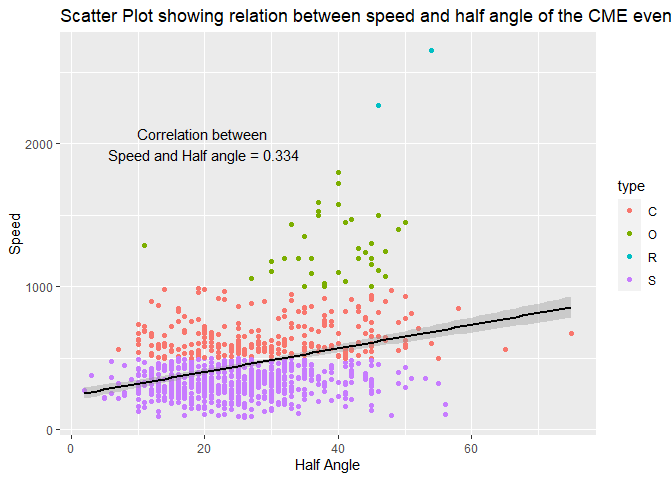
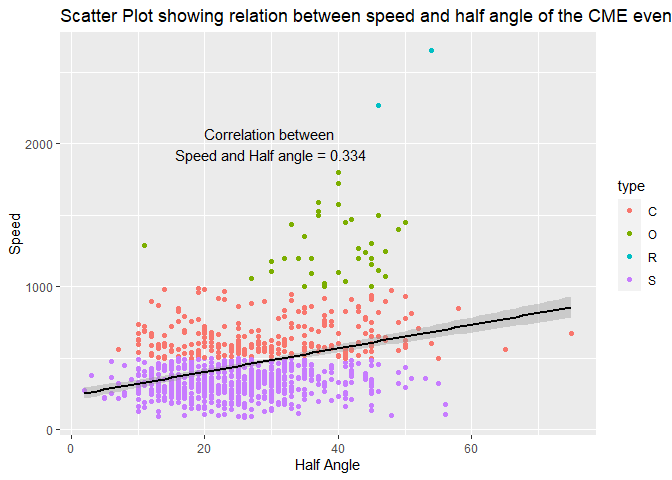
minor

Changed region(s): [[0.1562, 0.25, 0.5625, 0.3438]]

diff --git a/README.html b/README.html
@@ -1094,7 +1094,7 @@ plot</li>
 <span id="cb7-10"><a href="#cb7-10" aria-hidden="true" tabindex="-1"></a>  <span class="fu">ylab</span>(<span class="st">&#39;Minimum Diamter&#39;</span>) <span class="sc">+</span> </span>
 <span id="cb7-11"><a href="#cb7-11" aria-hidden="true" tabindex="-1"></a>  <span class="fu">labs</span>(<span class="at">title =</span> <span class="st">&quot;Box Plot&quot;</span>,</span>
 <span id="cb7-12"><a href="#cb7-12" aria-hidden="true" tabindex="-1"></a>       <span class="at">subtitle =</span> <span class="st">&quot;Minimum Diamter Variation Across Asteroid Type &quot;</span>)</span></code></pre></div>
[2 lines of base64/hex data omitted]
 <p>The dark line in box plot represent the median and the top box is 75
 %ile and bottom box is 25 %ile. The end points of the black line are
 whiskers and they are at a distance of 1.5*IQR. In this plot we can
@@ -1511,8 +1511,8 @@ of geom_smooth function.</p>
 <span id="cb23-5"><a href="#cb23-5" aria-hidden="true" tabindex="-1"></a>  <span class="fu">geom_smooth</span>(<span class="at">method =</span> <span class="st">&quot;lm&quot;</span>,<span class="at">color=</span><span class="st">&quot;black&quot;</span>) <span class="sc">+</span> </span>
 <span id="cb23-6"><a href="#cb23-6" aria-hidden="true" tabindex="-1"></a>  <span class="fu">labs</span>(<span class="at">title=</span><span class="st">&quot;Scatter Plot showing relation between speed and half angle of the CME event&quot;</span>,</span>
 <span id="cb23-7"><a href="#cb23-7" aria-hidden="true" tabindex="-1"></a>        <span class="at">x =</span><span class="st">&quot;Half Angle&quot;</span>, <span class="at">y =</span> <span class="st">&quot;Speed&quot;</span>) <span class="sc">+</span> </span>
-<span id="cb23-8"><a href="#cb23-8" aria-hidden="true" tabindex="-1"></a>  <span class="fu">annotate</span>(<span class="at">geom=</span><span class="st">&quot;text&quot;</span>, <span class="at">x=</span><span class="dv">20</span>, <span class="at">y=</span><span class="dv">2000</span>, <span class="at">label=</span><span class="fu">paste0</span>(<span class="st">&quot;Correlation between </span><span class="sc">\n</span><span class="st">Speed and Half angle = &quot;</span>, <span class="fu">round</span>(cor, <span class="dv">3</span>)))</span></code></pre></div>
[1 lines of base64/hex data omitted]
+<span id="cb23-8"><a href="#cb23-8" aria-hidden="true" tabindex="-1"></a>  <span class="fu">annotate</span>(<span class="at">geom=</span><span class="st">&quot;text&quot;</span>, <span class="at">x=</span><span class="dv">30</span>, <span class="at">y=</span><span class="dv">2000</span>, <span class="at">label=</span><span class="fu">paste0</span>(<span class="st">&quot;Correlation between </span><span class="sc">\n</span><span class="st">Speed and Half angle = &quot;</span>, <span class="fu">round</span>(cor, <span class="dv">3</span>)))</span></code></pre></div>
[1 lines of base64/hex data omitted]
 <p>The initial speculations were true since the speed and half angle do
 show a positive correlation between them.</p>
 <p>Then for each zone, I have plotted a “dodge” type bar plot

diff --git a/ST558_Project_2_Main_File.md b/ST558_Project_2_Main_File.md
@@ -830,7 +830,7 @@ ggplot(cmeSampleData, aes(x=halfAngle, y=speed)) +
   geom_smooth(method = "lm",color="black") + 
   labs(title="Scatter Plot showing relation between speed and half angle of the CME event",
         x ="Half Angle", y = "Speed") + 
-  annotate(geom="text", x=20, y=2000, label=paste0("Correlation between \nSpeed and Half angle = ", round(cor, 3)))
+  annotate(geom="text", x=30, y=2000, label=paste0("Correlation between \nSpeed and Half angle = ", round(cor, 3)))
 ```
 
 ![](ST558_Project_2_Main_FIle_files/figure-gfm/cor-1.png)<!-- -->

diff --git a/README.md b/README.md
@@ -860,7 +860,7 @@ ggplot(cmeSampleData, aes(x=halfAngle, y=speed)) +
   geom_smooth(method = "lm",color="black") + 
   labs(title="Scatter Plot showing relation between speed and half angle of the CME event",
         x ="Half Angle", y = "Speed") + 
-  annotate(geom="text", x=20, y=2000, label=paste0("Correlation between \nSpeed and Half angle = ", round(cor, 3)))
+  annotate(geom="text", x=30, y=2000, label=paste0("Correlation between \nSpeed and Half angle = ", round(cor, 3)))
 ```
 
 ![](README_files/figure-gfm/cor-1.png)<!-- -->
